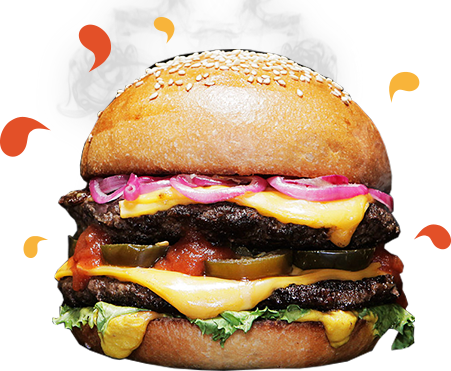
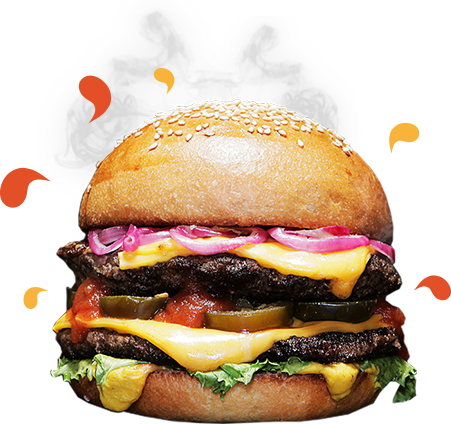
кусок

diff --git a/css/style.css b/css/style.css
@@ -406,21 +406,21 @@ ul {
   position: fixed;
   z-index: 1;
   right: 3%;
-  top: 12%; }
+  top: 14%; }
   .nav__item {
-    margin-bottom: 0.3125rem; }
+    margin-bottom: 0.32rem; }
     .nav__item:last-child {
       margin-bottom: 0; }
 
 .nav__link {
   position: relative;
   display: block;
-  width: 1.125rem;
-  height: 1.125rem; }
+  width: 1rem;
+  height: 1rem; }
   .nav__link:before {
     content: '';
-    width: 1.125rem;
-    height: 1.125rem;
+    width: 1rem;
+    height: 1rem;
     opacity: 0;
     -webkit-transition: opacity 0.3s;
     -o-transition: opacity 0.3s;
@@ -437,8 +437,8 @@ ul {
   .nav__link:after {
     content: '';
     position: absolute;
-    width: 0.5rem;
-    height: 0.5rem;
+    width: 0.39rem;
+    height: 0.39rem;
     background: #fff;
     border-radius: 50%;
     top: 50%;
@@ -447,8 +447,8 @@ ul {
     -ms-transform: translate(-50%, -50%);
     transform: translate(-50%, -50%); }
   .nav__link--active:before, .nav__link:hover:before {
-    width: 1.125rem;
-    height: 1.125rem;
+    width: 0.93rem;
+    height: 0.93rem;
     border-color: #fff;
     opacity: 1; }
 
@@ -470,7 +470,7 @@ ul {
 .section--header {
   background: url("../img/section--header/fon.jpg") center center no-repeat;
   background-size: cover;
-  font-size: 0.8125rem;
+  font-size: 0.8rem;
   text-transform: uppercase;
   font-family: "ubuntu", helvetica, sans-serif;
   font-weight: bold; }
@@ -517,11 +517,11 @@ ul {
     .menu__item a {
       text-decoration: none; }
     .menu__item:after {
-      margin: 0 0.5rem;
+      margin: 0 .85rem;
       content: "";
       display: block;
-      width: 0.25rem;
-      height: 0.25rem;
+      width: 0.3rem;
+      height: 0.3rem;
       border-radius: 50%;
       background: #fff; }
     .menu__item:last-child:after {
@@ -555,7 +555,8 @@ ul {
     -ms-flex-direction: column;
     flex-direction: column;
     padding-top: 0.625rem;
-    padding-left: 0.625rem; }
+    padding-left: 0.625rem;
+    width: 50%; }
     .bigburger__text-down {
       line-height: 1;
       color: #fff;
@@ -564,10 +565,20 @@ ul {
       text-transform: none; }
 
 .bigburger__left {
-  width: 100%; }
+  width: 28rem; }
 
 .bigburger__pic {
-  width: 90%; }
+  display: -webkit-box;
+  display: -ms-flexbox;
+  display: flex;
+  -webkit-box-orient: vertical;
+  -webkit-box-direction: normal;
+  -ms-flex-direction: column;
+  flex-direction: column;
+  -webkit-box-align: end;
+  -ms-flex-align: end;
+  align-items: flex-end;
+  width: 50%; }
 
 .arrow-down {
   position: absolute;
@@ -1269,11 +1280,11 @@ ul {
 
 @media screen and (max-width: 768px) {
   html {
-    font-size: 14px; }
+    font-size: 13px; }
   .wrapper {
-    min-width: 500px; }
+    min-width: 97%; }
   .container {
-    max-width: 480px; }
+    max-width: 95%; }
   .hamburger-menu-link {
     display: -webkit-inline-box;
     display: -ms-inline-flexbox;
@@ -1297,7 +1308,13 @@ ul {
     -ms-flex-pack: center;
     justify-content: center; }
     .bigburger__text {
-      text-align: center; }
+      text-align: center;
+      width: 100%; }
+    .bigburger__pic {
+      width: 100%;
+      -webkit-box-align: center;
+      -ms-flex-align: center;
+      align-items: center; }
   .arrow-down {
     bottom: 2.5rem; }
   .team-right {
@@ -1350,7 +1367,7 @@ ul {
 
 @media screen and (max-width: 480px) {
   html {
-    font-size: 13px; }
+    font-size: 12px; }
   .wrapper {
     min-width: 97%; }
   .container {

diff --git a/css/sections/section--header.scss b/css/sections/section--header.scss
@@ -1,7 +1,7 @@
 .section--header {
   background: url('../img/section--header/fon.jpg') center center no-repeat;
   background-size: cover;
-  font-size: 0.8125rem;
+  font-size: 0.8rem;
   text-transform: uppercase;
   font-family: "ubuntu", helvetica, sans-serif;
   font-weight: bold;
@@ -37,11 +37,11 @@
     }
   
     &:after {
-      margin: 0 0.5rem;
+      margin: 0 .85rem;
       content: "";
       display: block;
-      width: 0.25rem;
-      height: 0.25rem;
+      width: 0.3rem;
+      height: 0.3rem;
       border-radius: 50%;
       background: #fff;
     }
@@ -73,7 +73,7 @@
     flex-direction: column;
     padding-top: 0.625rem;
     padding-left: 0.625rem;
-
+    width: 50%;
     &-down {
       line-height: 1;
       color: #fff;
@@ -85,10 +85,13 @@
 
 }
 .bigburger__left {
-  width: 100%;
+  width: 28rem;
 }
 .bigburger__pic {
-  width: 90%;
+  display: flex;
+  flex-direction: column;
+  align-items: flex-end;
+  width: 50%;
 }
 .arrow-down {
   position: absolute;

diff --git a/css/sections/nav.scss b/css/sections/nav.scss
@@ -2,9 +2,9 @@
   position: fixed;
   z-index: 1;
   right: 3%;
-  top: 12%;
+  top: 14%;
   &__item {
-    margin-bottom: 0.3125rem;
+    margin-bottom: 0.32rem;
     &:last-child {
       margin-bottom: 0;
     }
@@ -13,12 +13,12 @@
 .nav__link {
   position: relative;
   display: block;
-  width: 1.125rem;
-  height: 1.125rem;
+  width: 1rem;
+  height: 1rem;
   &:before {
     content: '';
-    width: 1.125rem;
-    height: 1.125rem;
+    width: 1rem;
+    height: 1rem;
     opacity: 0;
     transition: opacity 0.3s;
     position: absolute;
@@ -32,8 +32,8 @@
  &:after {
   content: '';
   position: absolute;
-  width: 0.5rem;
-  height: 0.5rem;
+  width: 0.39rem;
+  height: 0.39rem;
   background: #fff;
   border-radius: 50%;
   top: 50%;
@@ -43,8 +43,8 @@
 &--active,
 &:hover {
   &:before { 
-    width: 1.125rem;
-    height: 1.125rem;
+    width: 0.93rem;
+    height: 0.93rem;
     border-color: #fff;
     opacity: 1;
   }

diff --git a/css/layout/media.scss b/css/layout/media.scss
@@ -6,13 +6,13 @@
 }
 @media screen and (max-width: 768px) {  //планшет
 html {
-    font-size: 14px;
+    font-size: 13px;
 }
 .wrapper {
-    min-width: 500px;
+  min-width: 97%;
 }
 .container {
-    max-width: 480px;
+  max-width: 95%;
 }
 .hamburger-menu-link {
 display: inline-flex;
@@ -32,8 +32,12 @@ display: inline-flex;
     justify-content: center;
     &__text {
        text-align: center;
+       width: 100%;
     }
-  
+    &__pic {
+      width: 100%;
+      align-items: center;
+    }
   }
   .arrow-down {
     bottom: 2.5rem;
@@ -82,7 +86,7 @@ display: inline-flex;
 }
 @media screen and (max-width: 480px) {   //телефон
 html {
-  font-size: 13px;
+  font-size: 12px;
 }
   .wrapper {
     min-width: 97%;
@@ -165,4 +169,5 @@ flex-direction: column;
 .btn--reviews {
   align-self: center;
 }
+
 }

diff --git a/css/sections/section--slider.scss b/css/sections/section--slider.scss
@@ -56,8 +56,6 @@
 }
 .slider-right--title {
   color: #fff;
-  & p {
-  }
 }
 .slider-left__top-desc {
   font-family: "gagalin", helvetica, sans-serif;
